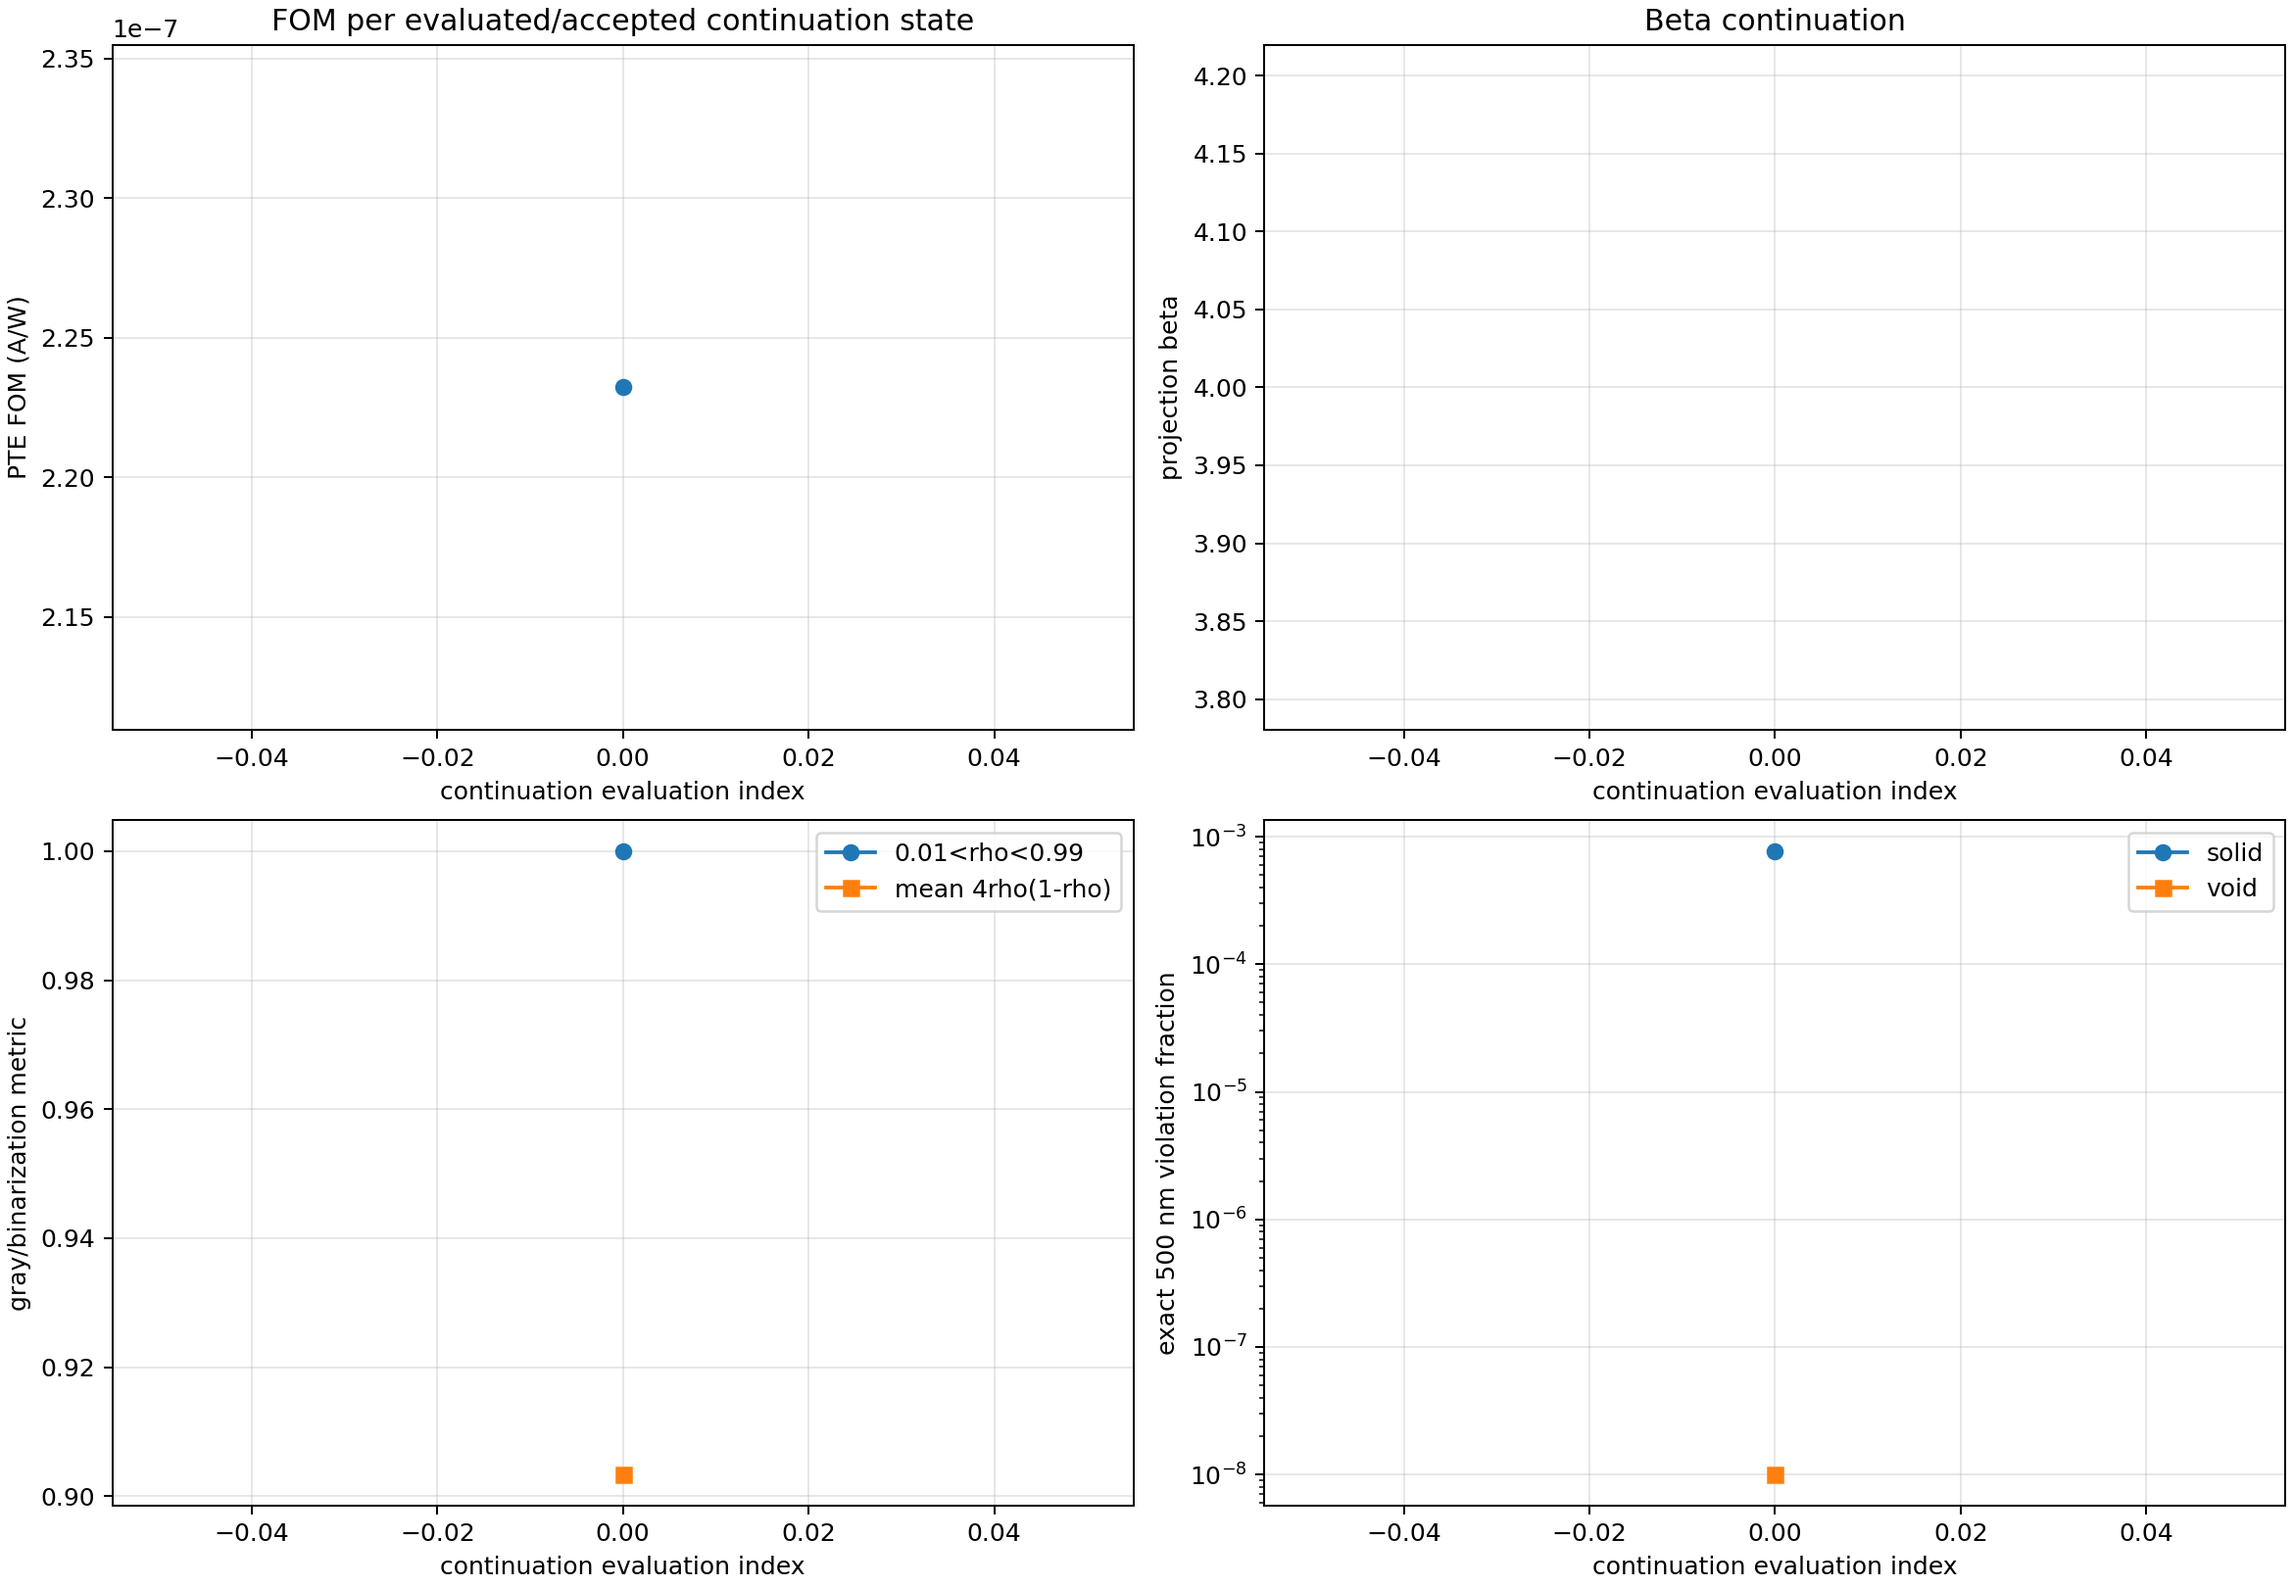
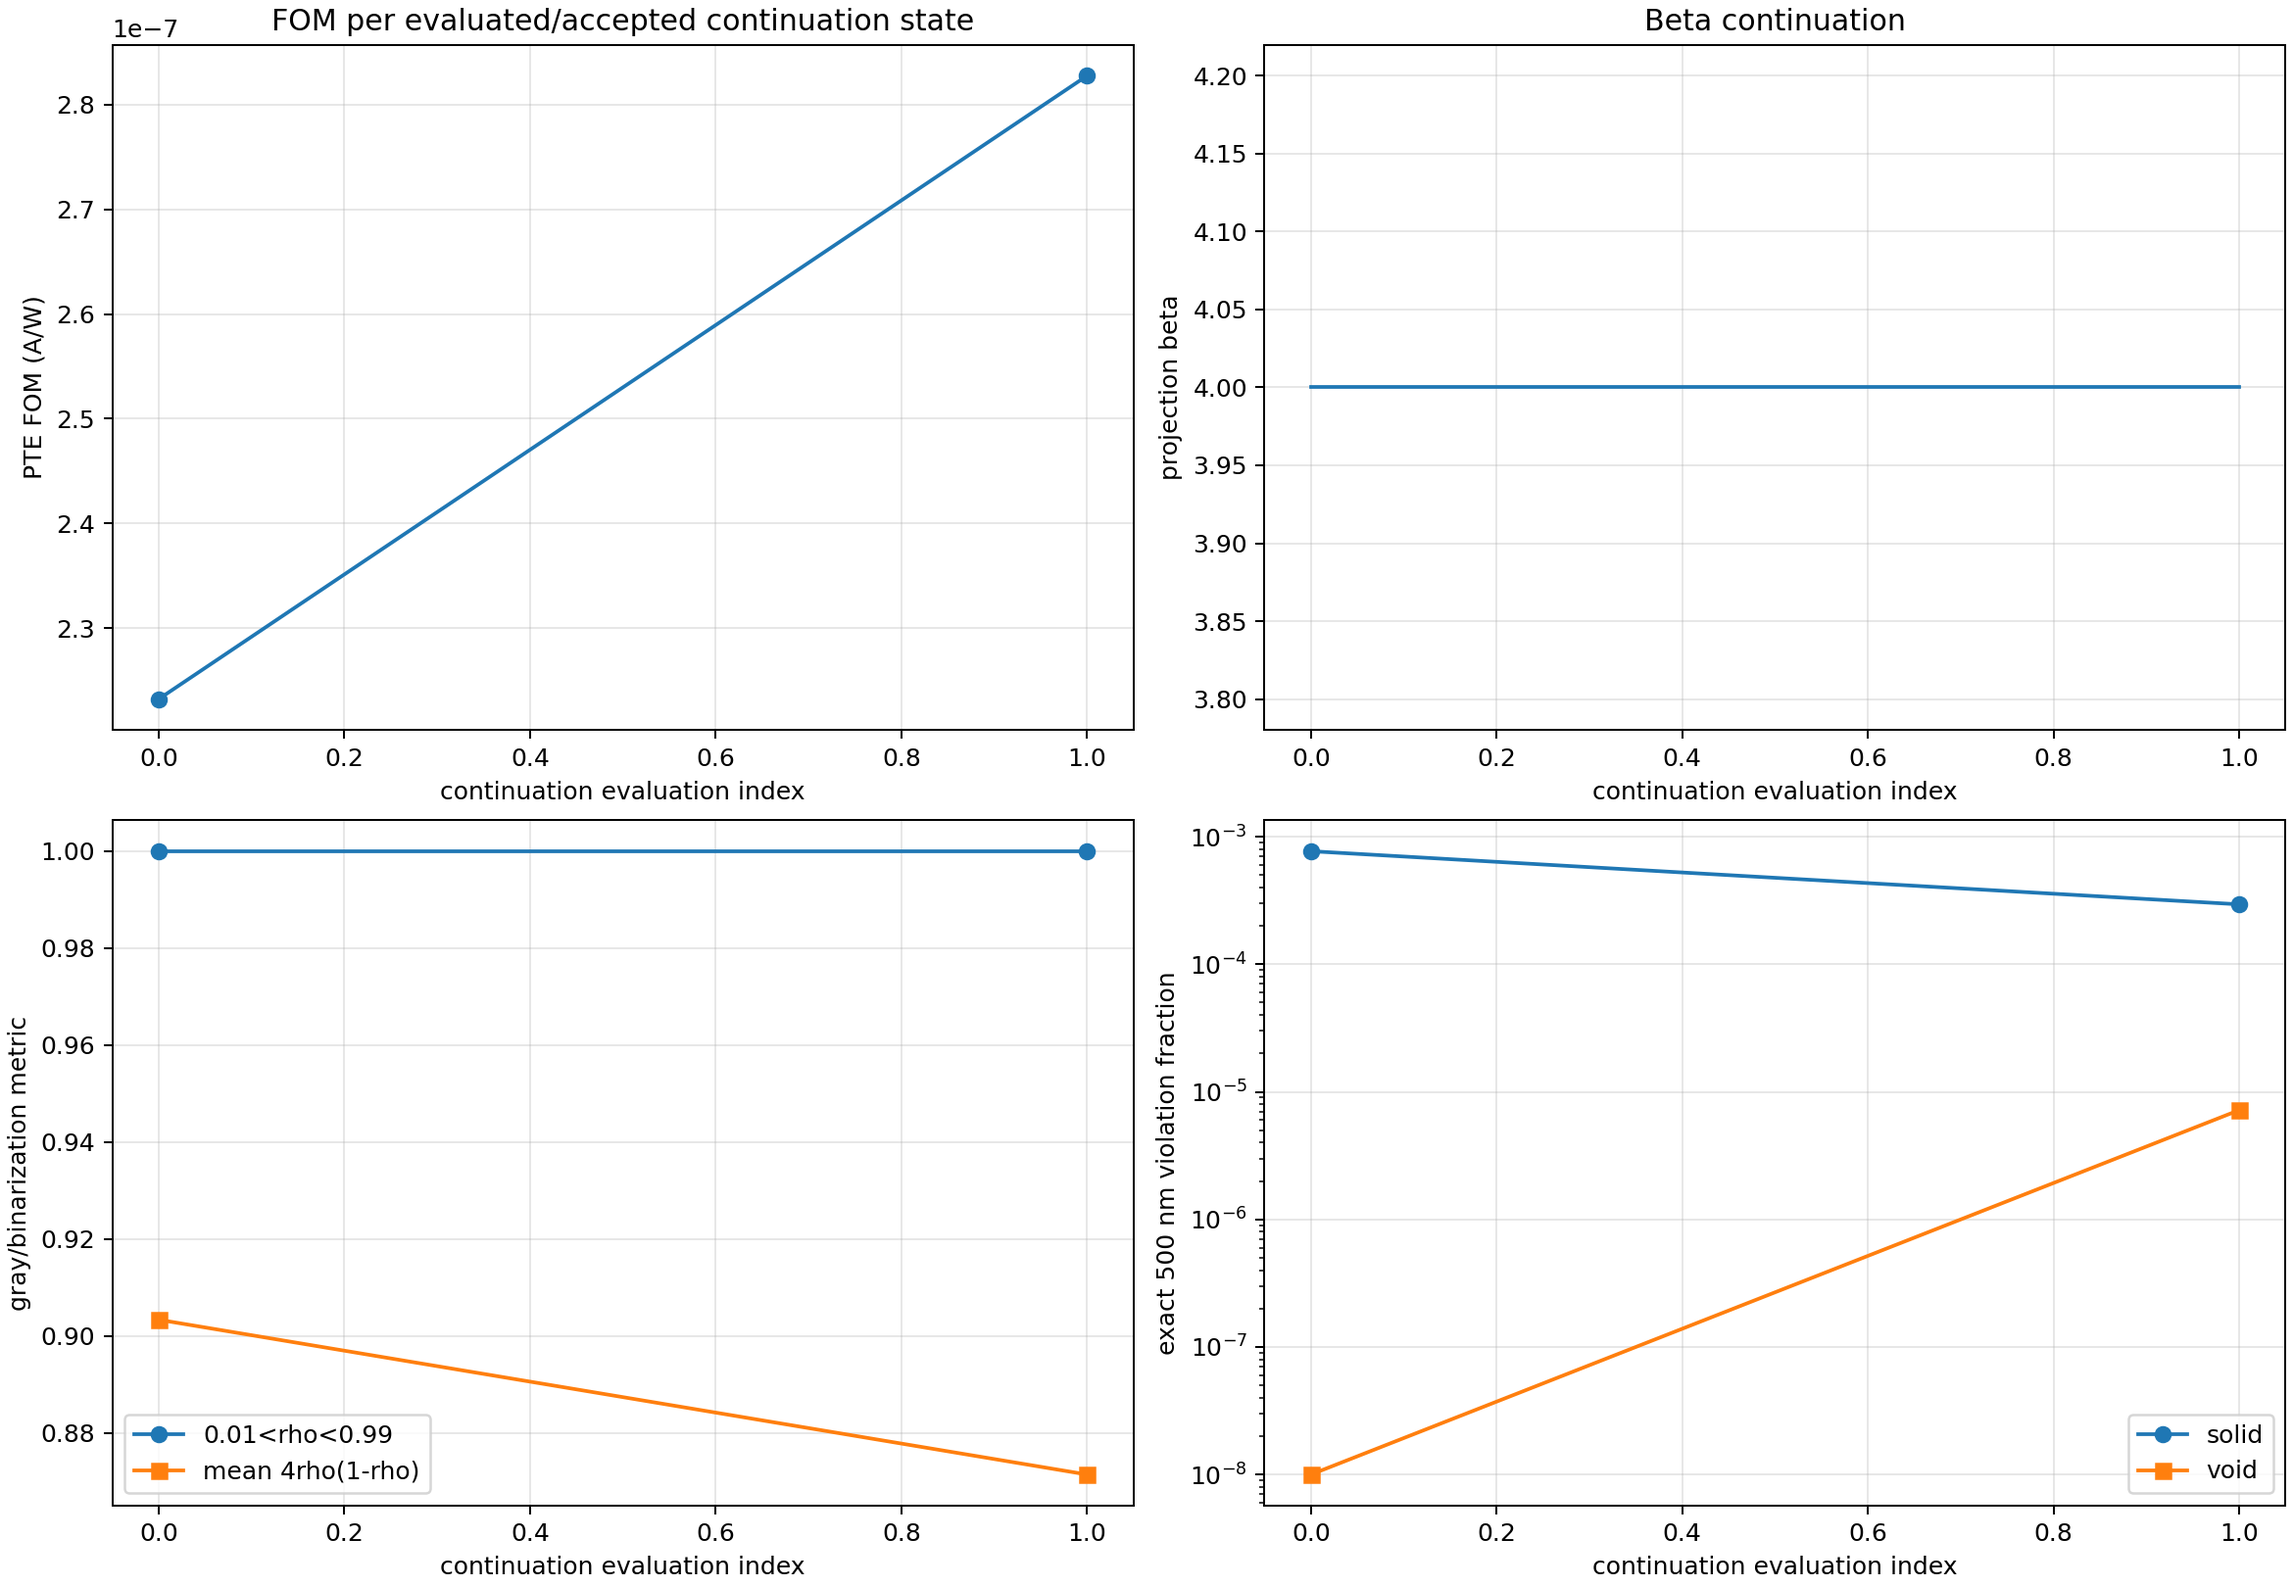
Accept first beta 4 constrained MMA step

diff --git a/photothermal_pte/optimization_runs/run_002_gaussian10_w8p5_current_max/propose_beta_continuation_step.py b/photothermal_pte/optimization_runs/run_002_gaussian10_w8p5_current_max/propose_beta_continuation_step.py
@@ -96,6 +96,30 @@ def main() -> int:
     )
     candidate = candidate_flat.reshape(latent.shape)
     candidate_metrics, candidate_arrays = design_metrics(candidate, beta, mapping)
+    current_exact = metrics["exact_binary_audit"]
+    candidate_exact = candidate_metrics["exact_binary_audit"]
+    current_bad = int(current_exact["solid_bad_cell_count"]) + int(current_exact["void_bad_cell_count"])
+    candidate_bad = int(candidate_exact["solid_bad_cell_count"]) + int(candidate_exact["void_bad_cell_count"])
+    drc_backtracking_alpha = 1.0
+    if candidate_bad > current_bad:
+        # Exact morphology is nondifferentiable and is not inserted into the
+        # MMA Jacobian.  A deterministic line search prevents an accepted
+        # proposal from increasing its total exact violation count; it does
+        # not repair or threshold the continuous design.
+        for alpha in (0.875, 0.75, 0.625, 0.5, 0.375, 0.25, 0.125):
+            trial = latent + alpha * (candidate - latent)
+            trial_metrics, trial_arrays = design_metrics(trial, beta, mapping)
+            trial_exact = trial_metrics["exact_binary_audit"]
+            trial_bad = int(trial_exact["solid_bad_cell_count"]) + int(trial_exact["void_bad_cell_count"])
+            if trial_bad <= current_bad:
+                candidate = trial
+                candidate_metrics = trial_metrics
+                candidate_arrays = trial_arrays
+                candidate_bad = trial_bad
+                drc_backtracking_alpha = alpha
+                break
+        else:
+            raise RuntimeError("no non-worsening exact-DRC proposal found within the MMA direction")
     proposal = output / "beta_continuation_proposal.npz"
     np.savez_compressed(
         proposal,
@@ -137,6 +161,14 @@ def main() -> int:
         "constraint_caps": caps.tolist(),
         "constraint_normalized_values": constraint_values.tolist(),
         "candidate_offline_metrics": candidate_metrics,
+        "exact_DRC_backtracking": {
+            "applied": drc_backtracking_alpha < 1.0,
+            "alpha": drc_backtracking_alpha,
+            "current_total_bad_cells": current_bad,
+            "candidate_total_bad_cells": candidate_bad,
+            "continuous_line_search_only": True,
+            "posthoc_binary_repair": False,
+        },
         "mma_diagnostics": diagnostics,
         "inputs": {
             "evaluation_result": artifact(result_path),

diff --git a/photothermal_pte/optimization_runs/run_002_gaussian10_w8p5_current_max/results/BETA_CONTINUATION_REPORT.md b/photothermal_pte/optimization_runs/run_002_gaussian10_w8p5_current_max/results/BETA_CONTINUATION_REPORT.md
@@ -4,8 +4,8 @@ Status: `RUNNING_BETA_CONTINUATION_WITH_500NM_SOLID_VOID_CONSTRAINTS`
 
 This is the continuation of the validated nominal run. It uses a stateful MMA subproblem, the existing finite nonperiodic 500 nm conic filter, explicit smooth solid/void constraints, and an independent exact 500 nm binary morphology audit. The exact audit never modifies or repairs the design.
 
-Current beta: `4`; current global iteration: `5`; FOM: `2.232244851710e-07 A/W`; mean `4 rho (1-rho)`: `0.90335918`.
+Current beta: `4`; current global iteration: `6`; FOM: `2.827745233446e-07 A/W`; mean `4 rho (1-rho)`: `0.87142885`.
 
-Exact solid violation fraction: `0.00076907043`; exact void violation fraction: `0`.
+Exact solid violation fraction: `0.00029469054`; exact void violation fraction: `7.1875741e-06`.
 
 `RUNNING` is intentional: fully binary promotion requires the final grayness gates, zero exact solid/void violations, and a fresh thresholded-binary Maxwell/CUDA-thermal reevaluation.
